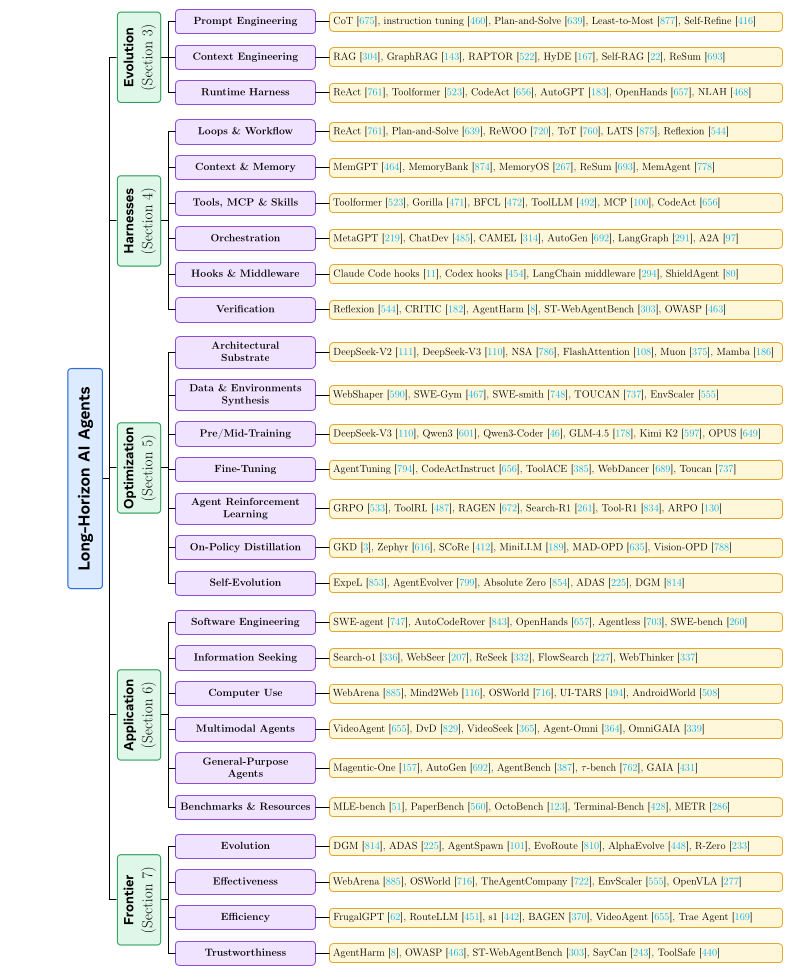
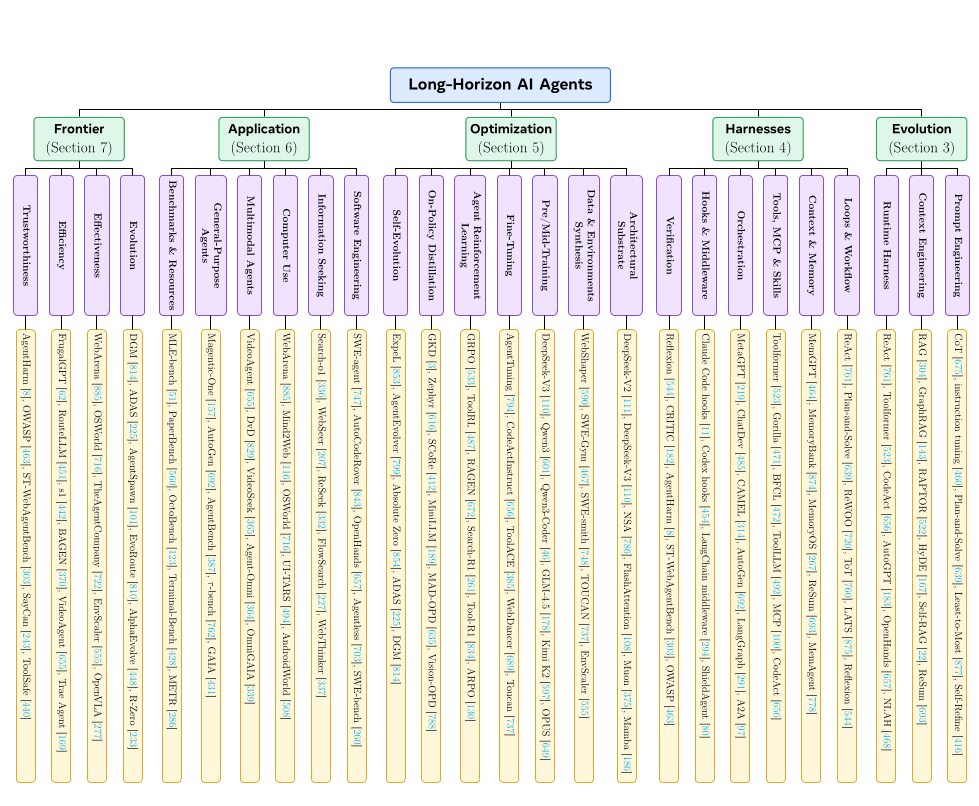
rotate

diff --git a/README.md b/README.md
@@ -222,11 +222,10 @@ The sixth property is:
         - there are tradeoffs, of course, rather than trying to build agents that plan for everything
 
 
+#### [When Does Restricting a Coding Agent to execute_code Help? A Regime × Agent-Design Ablation](https://arxiv.org/abs/2607.10569)
 
-- [When Does Restricting a Coding Agent to execute_code Help? A Regime × Agent-Design Ablation](https://arxiv.org/abs/2607.10569)
 
-
-- [Small Language Models for Efficient Agentic Tool Calling: Outperforming Large Models with Targeted Fine-tuning](https://arxiv.org/abs/2512.15943)
+#### [Small Language Models for Efficient Agentic Tool Calling: Outperforming Large Models with Targeted Fine-tuning](https://arxiv.org/abs/2512.15943)
 
 
 
@@ -274,7 +273,7 @@ Agents may be fast and relatively smart, but they are as subject as humans are t
 
 #### Andinet's Tech blog
 
-- [Agentic AI Is Coming to the SaMD Lifecycle](https://blog.andinet.dev/agentic-ai-is-coming-to-the-samd-lifecycle)
+##### [Agentic AI Is Coming to the SaMD Lifecycle](https://blog.andinet.dev/agentic-ai-is-coming-to-the-samd-lifecycle)
   - Designing, building, and shipping **Software as a Medical Device (SaMD)** must comply with some of the most demanding regulatory frameworks in any industry
     - every step of SaMD demands rigorous documentation, traceabilty, and quality assurance
   - Agentic AI, a class of autnomous systems that answers questions, plans, executes, and verifies multi-step tasks across complex workflows
@@ -339,10 +338,11 @@ Agents may be fast and relatively smart, but they are as subject as humans are t
           
  
 
-- [The Old Rules Still Apply: Why Software Engineering Discipline Matters More in AI Engineering](https://blog.andinet.dev/the-old-rules-still-apply-why-software-engineering-discipline-matters-more-in-ai-engineering)
+##### [The Old Rules Still Apply: Why Software Engineering Discipline Matters More in AI Engineering](https://blog.andinet.dev/the-old-rules-still-apply-why-software-engineering-discipline-matters-more-in-ai-engineering)
   - "Why write tests, specs, or design documents when a model can generate a working feature in minutes?"
     - "When implementation becomes cheap, the parts that were never about typing code become the whole job."
-      - "Knowing what to build, and knowing whether what you built actually works, matter more now than they ever did"
+      - "Knowing what to build, and knowing whether what you built actually works, ..."
+        - "... matter more now than they ever did"
      
 
 
@@ -358,7 +358,7 @@ Agents may be fast and relatively smart, but they are as subject as humans are t
 
 
 
-- [Harness Engineering: Anatomy, Architecture, and Evolution of Coding Agents](https://arxiv.org/pdf/2609.00006)
+#### [Harness Engineering: Anatomy, Architecture, and Evolution of Coding Agents](https://arxiv.org/pdf/2609.00006)
   - **Harness Engineering** is the design and evolution of that runtime that couples the LLM through a loop,  tools, context management, safety controls, orchestration, and extension surfaces
 
     
@@ -703,8 +703,8 @@ production use.
 
     7. Extensibility Mechanisms
 
-- [What makes a harness a harness: necessary and sufficient conditions for an agent harness](https://arxiv.org/pdf/2606.10106)
-- [Better Harnesses, Smaller Models: Building 90% Cheaper Agents via Automated Harness Adaptation](https://arxiv.org/pdf/2607.08938)
+#### [What makes a harness a harness: necessary and sufficient conditions for an agent harness](https://arxiv.org/pdf/2606.10106)
+#### [Better Harnesses, Smaller Models: Building 90% Cheaper Agents via Automated Harness Adaptation](https://arxiv.org/pdf/2607.08938)
 
 
 ### Auto Research
